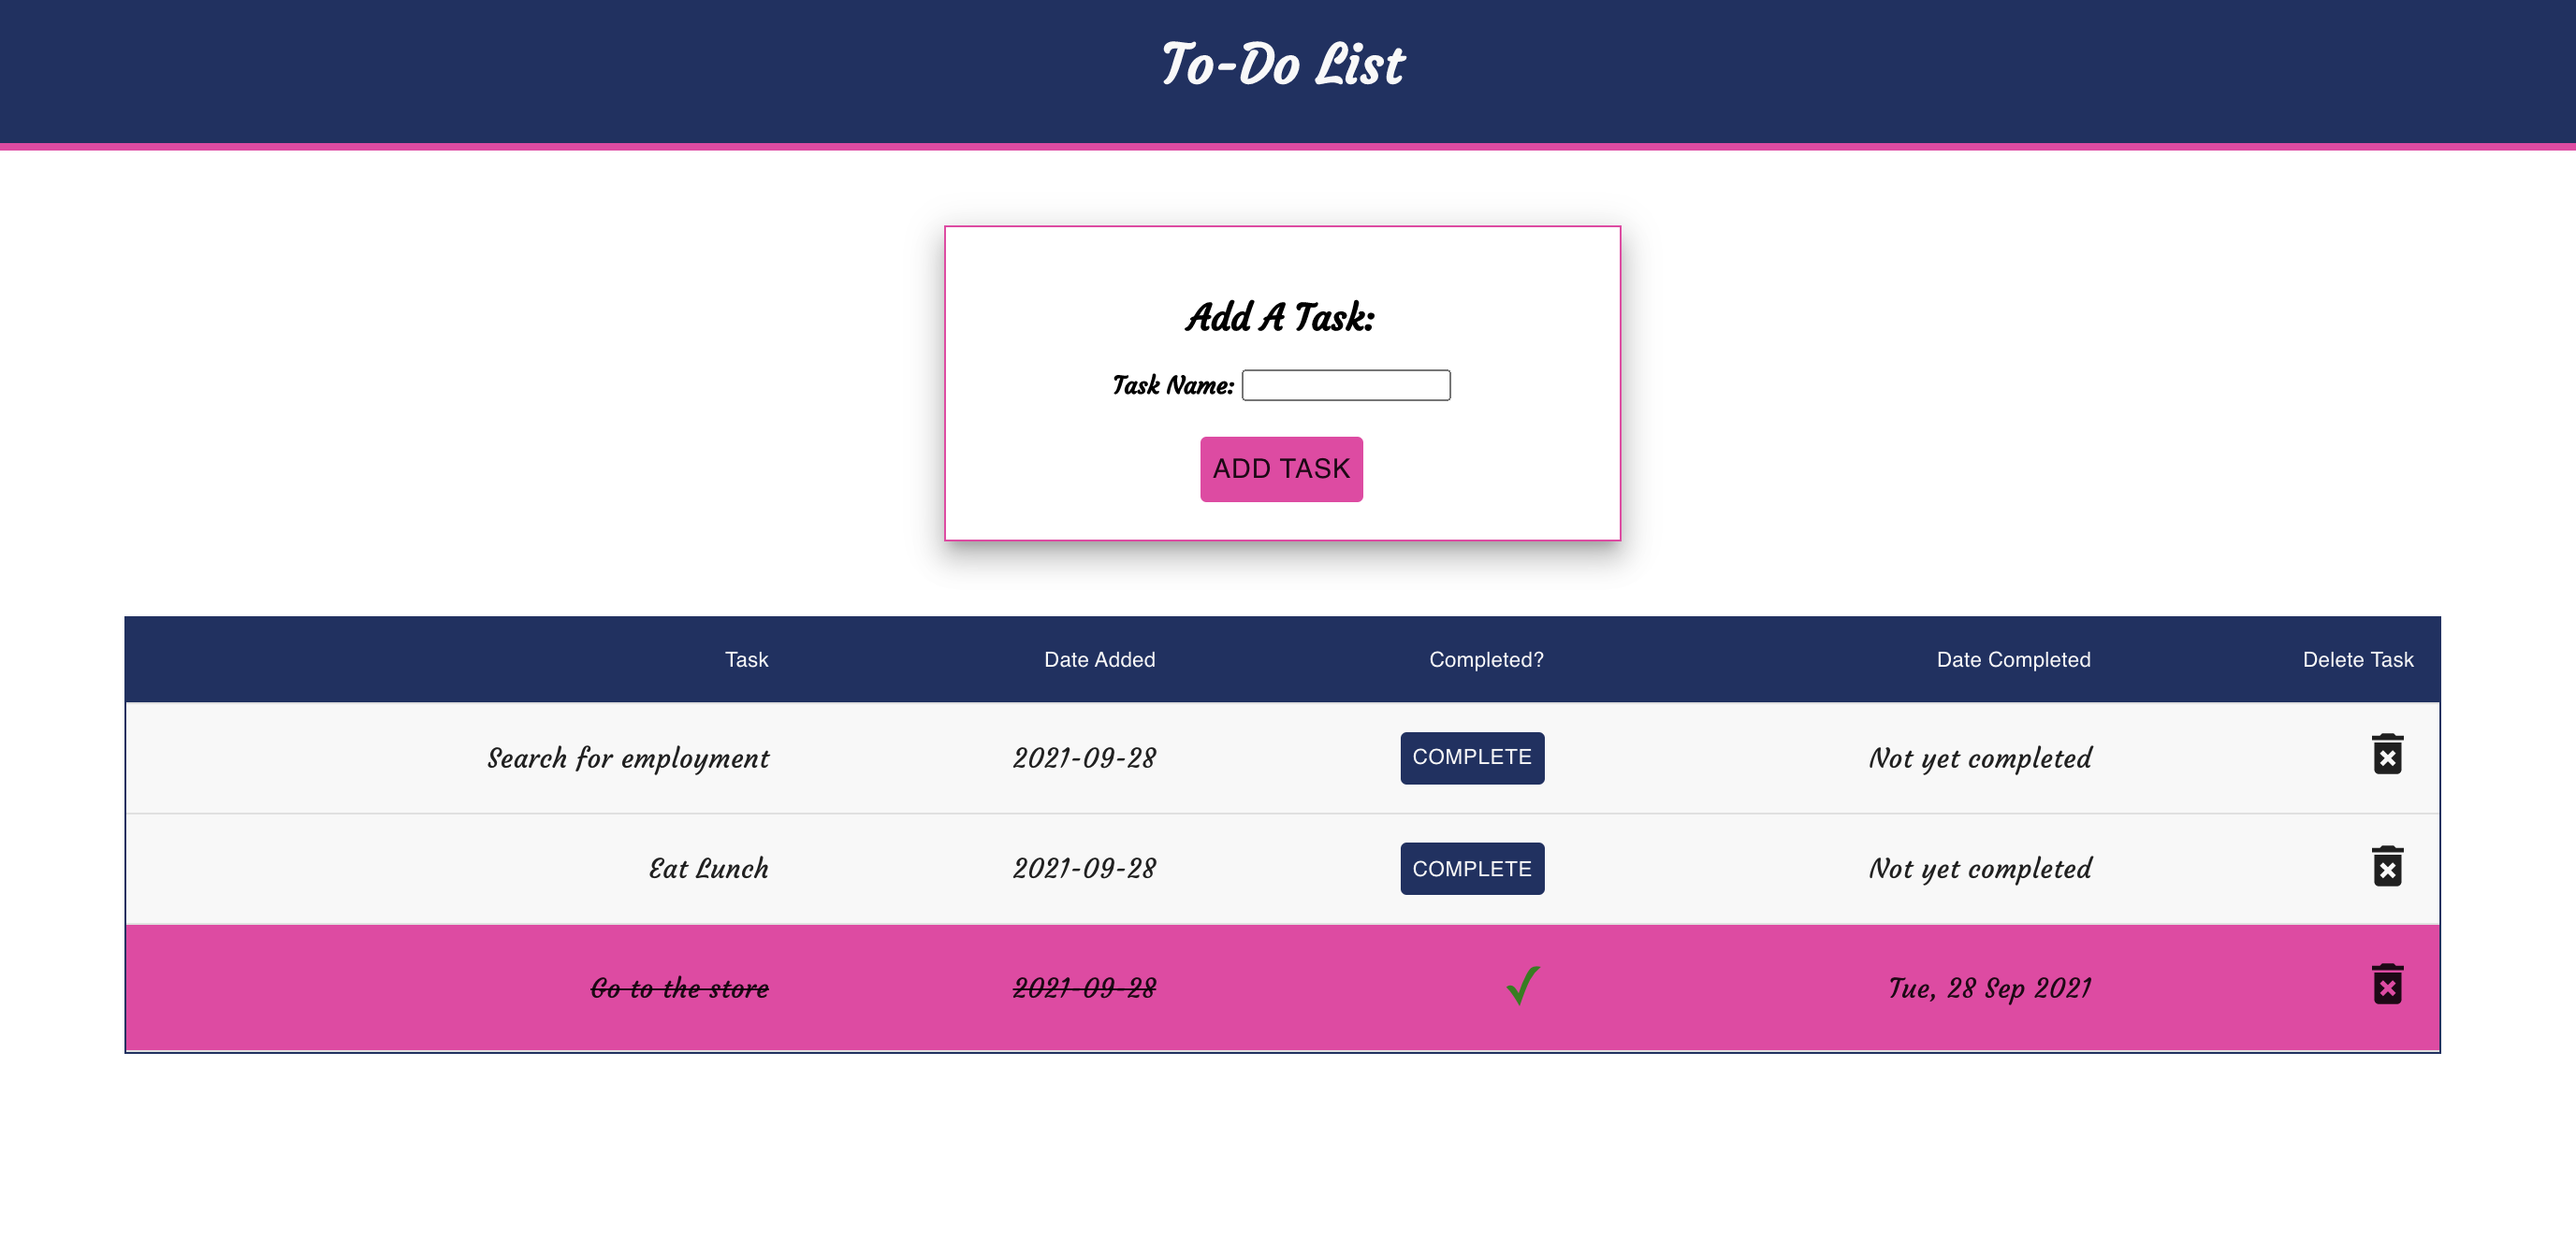
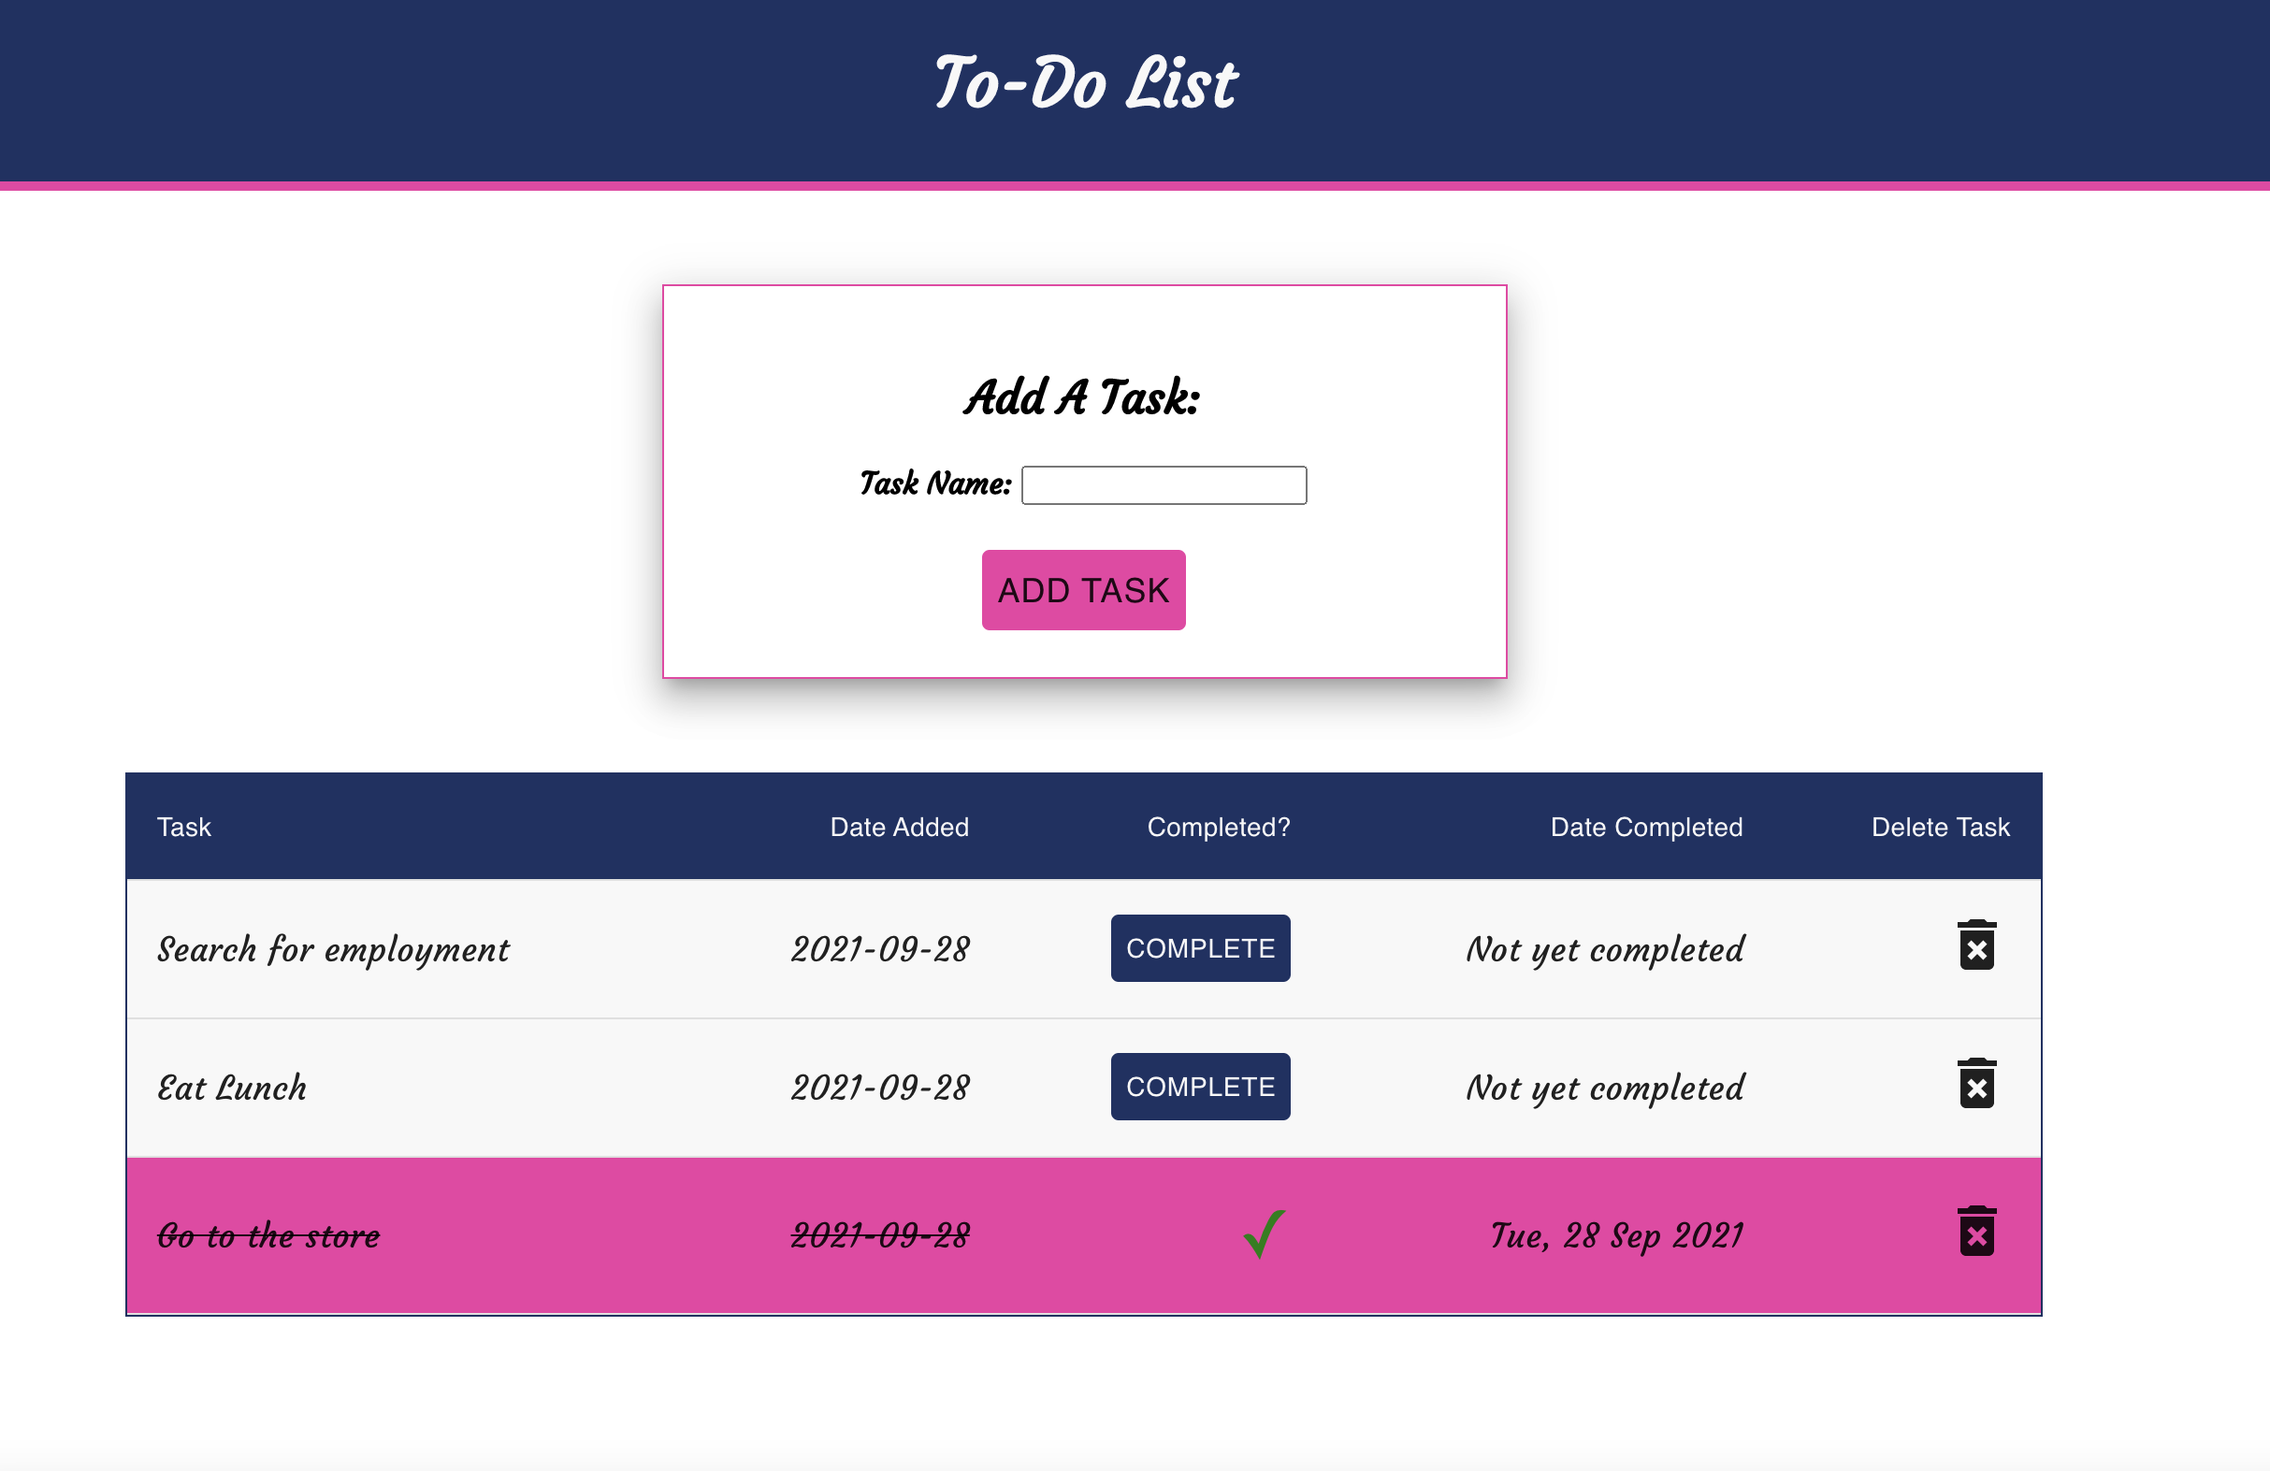
change photo

diff --git a/src/components/DisplayTasksEach/DisplayTasksEach.jsx b/src/components/DisplayTasksEach/DisplayTasksEach.jsx
@@ -60,7 +60,7 @@ function DisplayTasksEach({task}){
         <TableRow style={ task.completed ? {backgroundColor:'#F037A5'} : {backgroundColor:'#F8F8F8'}}>
             <TableCell style={ task.completed ? 
                 {textDecoration:'line-through',fontSize:"large", fontFamily:'Courgette, cursive'} : 
-                {textDecoration:'none', fontSize:"large", fontFamily:'Courgette, cursive'}} align="right">{task.task}
+                {textDecoration:'none', fontSize:"large", fontFamily:'Courgette, cursive'}}>{task.task}
             </TableCell>
             <TableCell style={ task.completed ? 
                 {textDecoration:'line-through',fontSize:"large", fontFamily:'Courgette, cursive'} : 

diff --git a/src/components/DisplayTasks/DisplayTasks.jsx b/src/components/DisplayTasks/DisplayTasks.jsx
@@ -37,7 +37,7 @@ function DisplayTasks({tasks}){
             <Table>
                 <TableHead style={{backgroundColor:"#1E3163"}}>
                     <TableRow border={1} borderColor="#1E3163">
-                        <TableCell align="right" style={{color:"#f8f8f8"}}>Task</TableCell>
+                        <TableCell style={{color:"#f8f8f8"}}>Task</TableCell>
                         <TableCell align="right" style={{color:"#f8f8f8"}}>Date Added</TableCell>
                         <TableCell align="right" style={{color:"#f8f8f8"}}>Completed?</TableCell>
                         <TableCell align="right" style={{color:"#f8f8f8"}}>Date Completed</TableCell>
